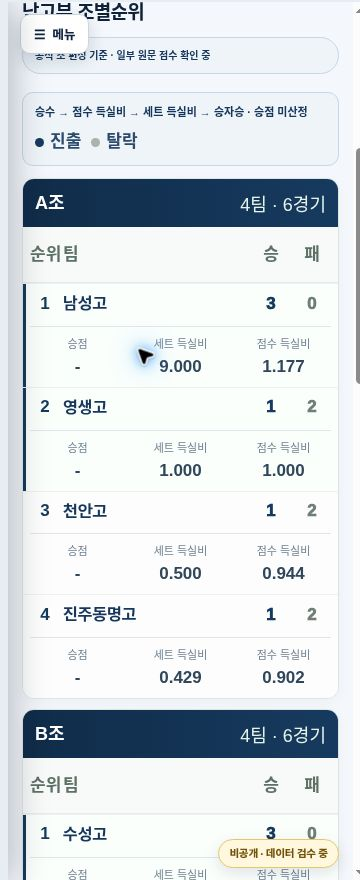
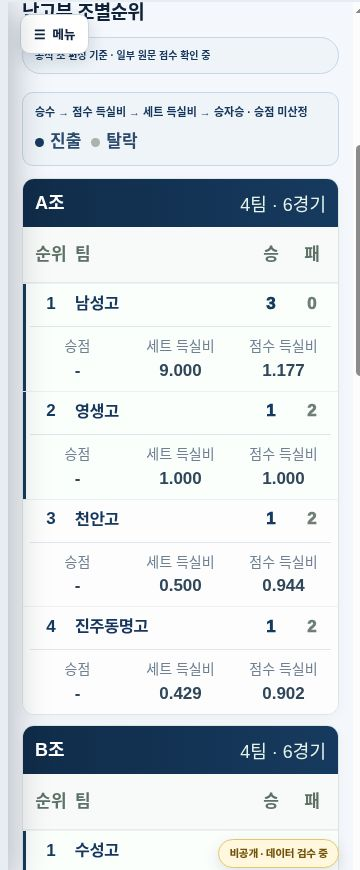
Keep school mobile standings labels separated and readable

diff --git a/assets/css/kvl-domestic-home-v2.css b/assets/css/kvl-domestic-home-v2.css
@@ -219,10 +219,10 @@ html body.kvl1180-prototype.kvl-competition-template-v2.kvl-domestic-home-v2[dat
 }
 @media screen and (max-width:680px){
  html body.kvl1180-prototype.kvl-competition-template-v2.kvl-domestic-home-v2[data-kvl-family="domestic"][data-kvl-audience="school"] #groups .kvl1180-pool-grid{grid-template-columns:1fr!important}
- html body.kvl1180-prototype.kvl-competition-template-v2.kvl-domestic-home-v2[data-kvl-family="domestic"][data-kvl-audience="school"] #groups :is(.kvl1180-pool-table-head,.kvl1180-pool-row){grid-template-columns:30px minmax(0,1fr) 38px 38px!important;min-width:0!important;height:auto!important;row-gap:10px!important}
+ html body.kvl1180-prototype.kvl-competition-template-v2.kvl-domestic-home-v2[data-kvl-family="domestic"][data-kvl-audience="school"] #groups :is(.kvl1180-pool-table-head,.kvl1180-pool-row){grid-template-columns:42px minmax(0,1fr) 38px 38px!important;min-width:0!important;height:auto!important;row-gap:10px!important}
  html body.kvl1180-prototype.kvl-competition-template-v2.kvl-domestic-home-v2[data-kvl-family="domestic"][data-kvl-audience="school"] #groups :is(.kvl1180-pool-table-head,.kvl1180-pool-row)>span:nth-child(n+5){display:none!important}
  html body.kvl1180-prototype.kvl-competition-template-v2.kvl-domestic-home-v2[data-kvl-family="domestic"][data-kvl-audience="school"] #groups .kvl-school-pool-stats{display:grid!important;grid-column:1/-1;grid-template-columns:repeat(3,minmax(0,1fr));width:100%;border-top:1px solid #dfe7ee;padding-top:10px;gap:8px}
- .kvl-school-pool-stats>span{display:grid;gap:4px;text-align:center}.kvl-school-pool-stats small{font-size:11px;font-weight:500;color:#708092}.kvl-school-pool-stats b{font-size:17px;color:#30465b}
+ .kvl-school-pool-stats>span{display:grid;gap:4px;text-align:center}.kvl-school-pool-stats small{font-size:14px;font-weight:500;color:#708092}.kvl-school-pool-stats b{font-size:17px;color:#30465b}
 }
 @media screen{
  html body.kvl1180-prototype.kvl-competition-template-v2.kvl-domestic-home-v2[data-kvl-family="domestic"][data-kvl-audience="school"] #knockout .kvl1180-qf-pair:not(:has(.is-bye))::after{background:none!important;border-right:2px solid #b5c6d5!important}

diff --git a/competition-engine.html b/competition-engine.html
@@ -14,7 +14,7 @@
 <script src="/assets/js/kvl-competition-components-v2.js?v=20261026-school-1" defer></script>
 <script src="/assets/js/kvl-domestic-home-v2.js?v=20261026-school-1" defer></script>
 <script src="/assets/js/kvl-competition-loader-v2.js?v=20261024-domestic-home-1" defer></script>
-<link rel="stylesheet" href="/assets/css/kvl-domestic-home-v2.css?v=20261026-school-1">
+<link rel="stylesheet" href="/assets/css/kvl-domestic-home-v2.css?v=20261026-school-2">
 </head><body class="kvl1180-prototype kvl-competition-template-v2" data-kvl-render-state="loading">
 <script>
 (()=>{

diff --git a/university-competition-danyang.html b/university-competition-danyang.html
@@ -31,7 +31,7 @@
 <script src="/assets/js/kvl-competition-components-v2.js?v=20261026-school-1" defer></script>
 <script src="/assets/js/kvl-domestic-home-v2.js?v=20261026-school-1" defer></script>
 <script src="/assets/js/kvl-competition-loader-v2.js?v=20261024-domestic-home-1" defer></script>
-<link rel="stylesheet" href="/assets/css/kvl-domestic-home-v2.css?v=20261026-school-1">
+<link rel="stylesheet" href="/assets/css/kvl-domestic-home-v2.css?v=20261026-school-2">
 </head><body class="kvl1180-prototype kvl-competition-template-v2" data-kvl-render-state="loading">
 <script>
 (()=>{

diff --git a/university-competition.html b/university-competition.html
@@ -31,7 +31,7 @@
 <script src="/assets/js/kvl-competition-components-v2.js?v=20261026-school-1" defer></script>
 <script src="/assets/js/kvl-domestic-home-v2.js?v=20261026-school-1" defer></script>
 <script src="/assets/js/kvl-competition-loader-v2.js?v=20261024-domestic-home-1" defer></script>
-<link rel="stylesheet" href="/assets/css/kvl-domestic-home-v2.css?v=20261026-school-1">
+<link rel="stylesheet" href="/assets/css/kvl-domestic-home-v2.css?v=20261026-school-2">
 </head><body class="kvl1180-prototype kvl-competition-template-v2" data-kvl-render-state="loading">
 <script>
 (()=>{

diff --git a/docs/validation/school-domestic-home-v2-20261026.md b/docs/validation/school-domestic-home-v2-20261026.md
@@ -19,7 +19,7 @@ Append `-high-men`, `-high-women`, `-middle-men`, or `-middle-women` to the pref
 
 Common engine/controller/presentation extended with four division links, school labels/hub route, optional combined-ranking suppression and accurate empty-state messages. No copied renderer. Shared existing home Hero assets are used, matching the hub; navy/rose division themes remain. School match scores use neutral gray. A missing registered school roster does not link to an unrelated university page.
 
-Mobile standings retain all seven fields: rank, school, wins, losses, points, set ratio, point ratio. The last three appear beneath each school instead of being clipped. PC shows two pools per row. Existing larger fonts, trophies, default calendar month and mobile ladder behavior are retained.
+Mobile standings retain all seven fields: rank, school, wins, losses, points, set ratio, point ratio. The last three appear beneath each school instead of being clipped. PC shows two pools per row. The mobile rank column reserves 42px so 순위 and 팀 remain separated; secondary field labels use 14px for readability. Existing larger fonts, trophies, default calendar month and mobile ladder behavior are retained.
 
 ## Data and sources
 
